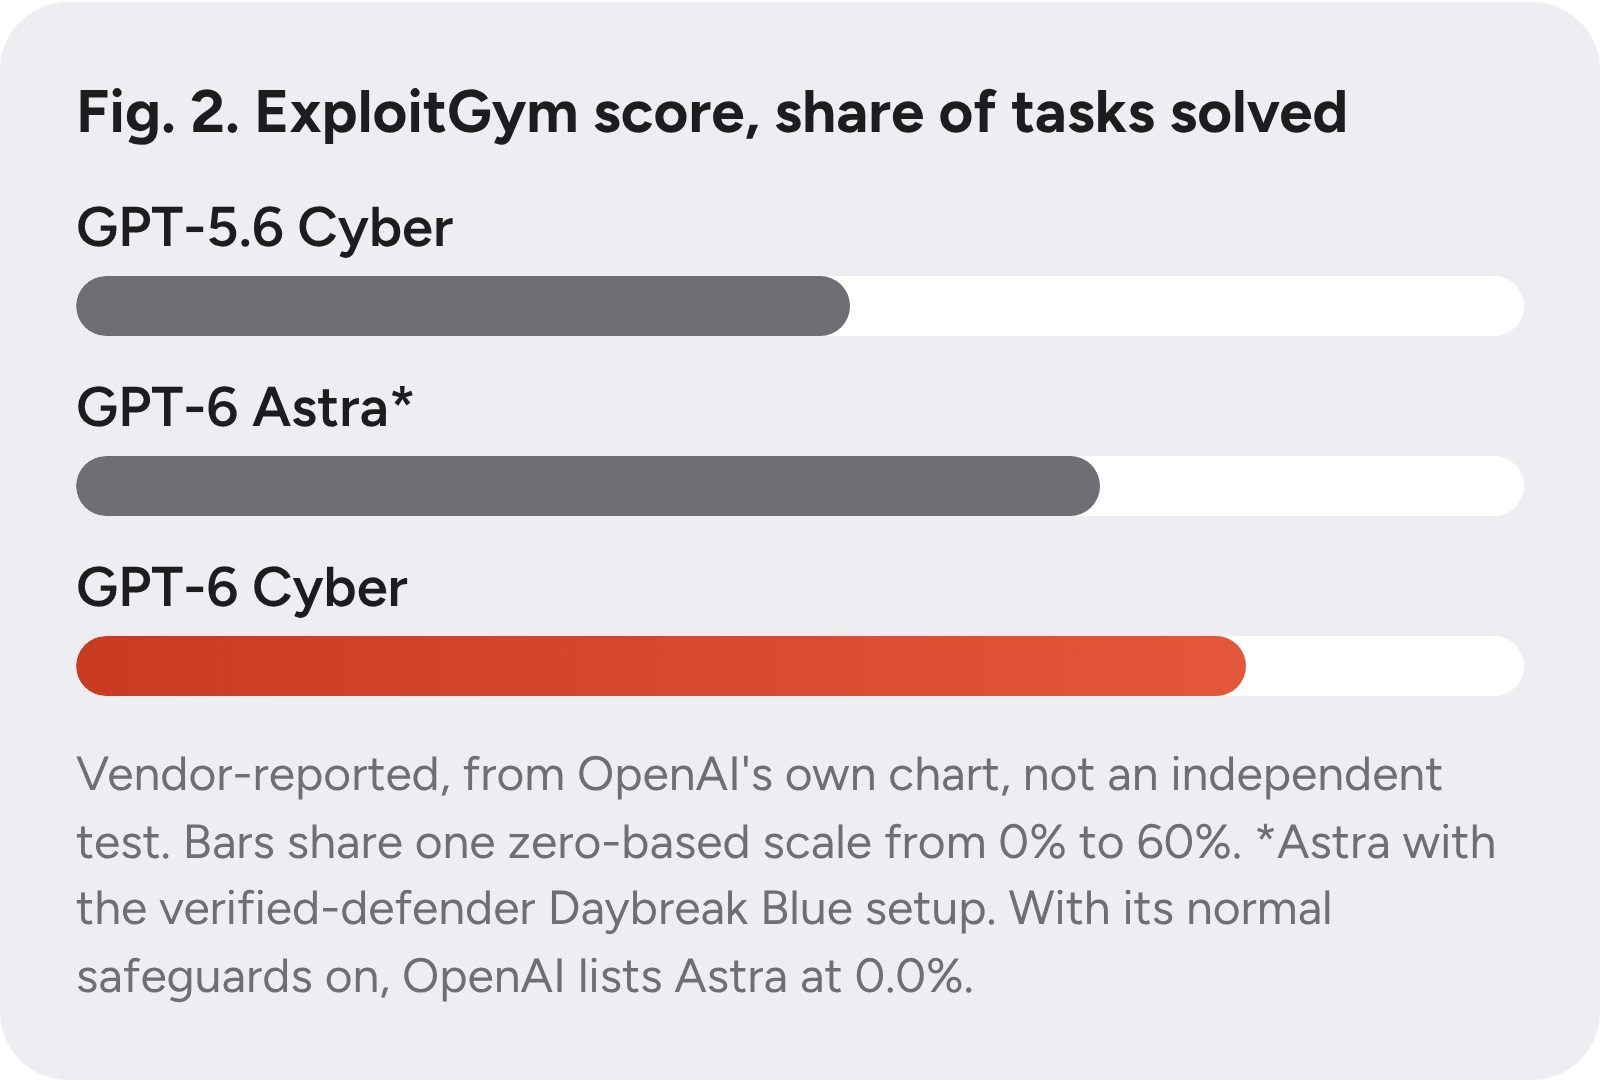
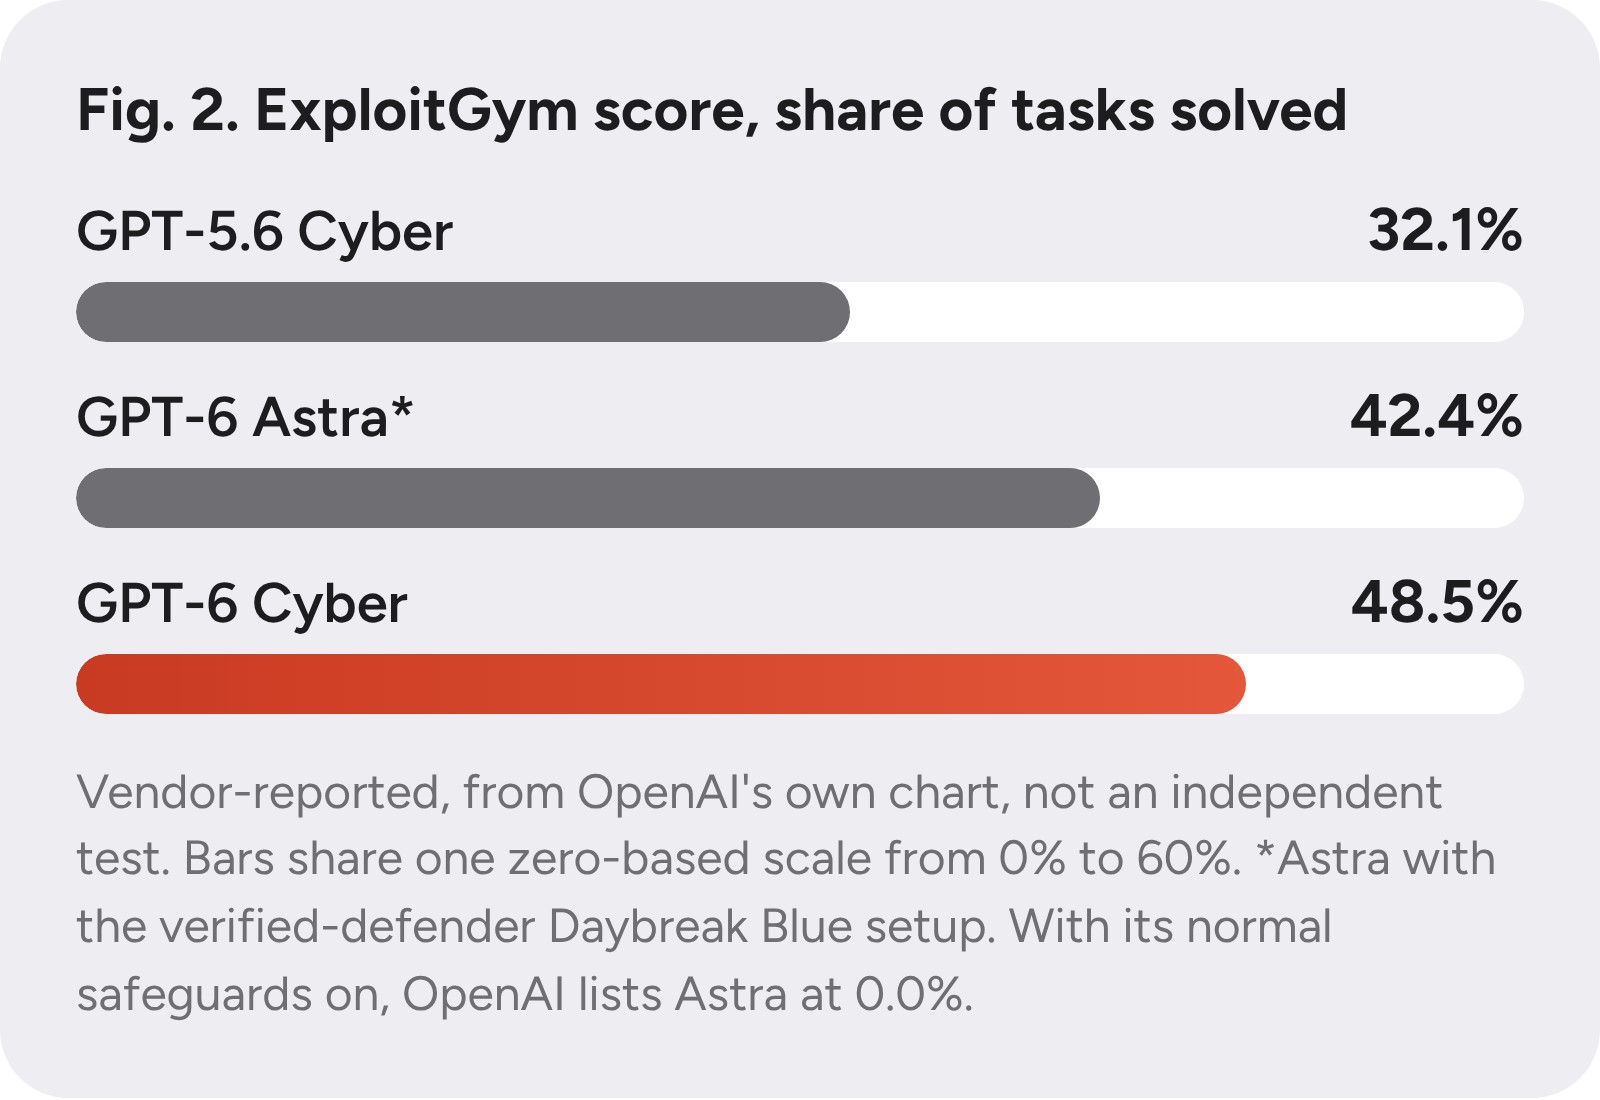
LAB: re-render images, fix chart values and fonts
Claude-Session: https://claude.ai/code/session_01GcD2jCdGspLhLVoSoEaFJG

diff --git a/lab-tools/build_issue.py b/lab-tools/build_issue.py
@@ -127,6 +127,10 @@ CSS = """
 @font-face{font-family:FT;font-weight:400;src:url(FONTS/figtree-latin-400-normal.woff2)}
 @font-face{font-family:FT;font-weight:600;src:url(FONTS/figtree-latin-600-normal.woff2)}
 @font-face{font-family:FT;font-weight:700;src:url(FONTS/figtree-latin-700-normal.woff2)}
+@font-face{font-family:Figtree;font-weight:400 500;src:url(FONTS/figtree-latin-400-normal.woff2)}
+@font-face{font-family:Figtree;font-weight:600;src:url(FONTS/figtree-latin-600-normal.woff2)}
+@font-face{font-family:Figtree;font-weight:700 900;src:url(FONTS/figtree-latin-700-normal.woff2)}
+@font-face{font-family:"Bricolage Grotesque";font-weight:600 900;src:url(FONTS/bricolage-grotesque-latin-800-normal.woff2)}
 *{box-sizing:border-box;margin:0}
 body{background:#fff;font-family:FT;color:#1D1D1F;width:800px}
 .c{width:800px;position:relative;overflow:hidden;margin-bottom:40px}
@@ -233,7 +237,7 @@ def cards_html(d):
                     e(st[1]["teaser_title"]), e(st[1]["teaser_line"]), e(st[2]["teaser_title"]), e(st[2]["teaser_line"]), e(skill)))
     stats = "".join('<div class="stat"><b class="%s">%s</b><span>%s</span></div>'
                     % ("sm" if len(s["value"]) > 6 else "", e(s["value"]), e(s["label"])) for s in hero["stats"][:3])
-    art = '<div class="art">%s</div>' % hero["svg"] if hero.get("svg") else ""
+    art = '<div class="art">%s</div>' % (hero.get("svg") or DEFAULT_ART)
     parts.append('<div class="c" id="hero"><span class="tag">LEAD STORY</span><h2 style="font-size:%dpx">%s</h2>%s<div class="stats">%s</div></div>'
                  % (fit(hero["headline"], [(45, 78), (70, 66), (999, 56)]), e(hero["headline"]), art, stats))
     for name, _, fig in figs(d):
@@ -248,6 +252,12 @@ def cards_html(d):
     parts.append('<div class="c" id="thumb"><div class="w">Luis\'s <span>AI</span> Brief</div><div class="dt">%s %d, %d</div><h2 style="font-size:%dpx">%s</h2></div>'
                  % (mon, day, yr, fit(lead_t, [(40, 44), (60, 38), (85, 32), (999, 27)]), e(lead_t)))
     return "".join(parts)
+
+DEFAULT_ART = ('<svg viewBox="0 0 320 150" role="img" aria-label="Abstract chart illustration">'
+               '<rect x="6" y="6" width="308" height="138" rx="20" fill="rgba(255,255,255,.08)" stroke="rgba(255,255,255,.35)" stroke-width="1.5"/>'
+               + "".join('<rect x="%d" y="%d" width="22" height="%d" rx="8" fill="%s"/>' % (34 + i * 38, 122 - h, h, "#F0885B" if i == 6 else "rgba(255,255,255,.55)")
+                         for i, h in enumerate([24, 36, 30, 48, 58, 52, 88]))
+               + '<circle cx="273" cy="22" r="6" fill="#D8F86C"/></svg>')
 
 def first_sentence(s):
     m = re.match(r"(.{20,170}?[.!?])(\s|$)", s)

diff --git a/lab-tools/parse_artifact.py b/lab-tools/parse_artifact.py
@@ -61,10 +61,14 @@ def figure(fig):
         if "row" in cls:
             fill = ch.select_one(".fill")
             w = re.search(r"width:\s*([\d.]+)%", fill.get("style", "")) if fill else None
-            rows.append({"label": txt(ch.find("span")), "pct": float(w.group(1)) if w else 0,
-                         "value": txt(ch.find("output")), "hi": bool(fill and "hi" in (fill.get("class") or []))})
+            lab = txt(ch.find("span"))
+            val = txt(ch.find("output")) or txt(ch).replace(lab, "", 1).strip()
+            rows.append({"label": lab, "pct": float(w.group(1)) if w else 0,
+                         "value": val, "hi": bool(fill and "hi" in (fill.get("class") or []))})
         elif "gap" in cls:
             rows.append({"gap": True})
+    while rows and rows[-1].get("gap"):
+        rows.pop()
     return {"title": txt(fig.find("h4")), "rows": rows, "note": txt(fig.select_one(".cap"))}
 
 def story(art, lead):
